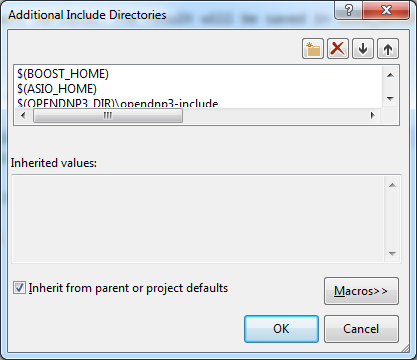
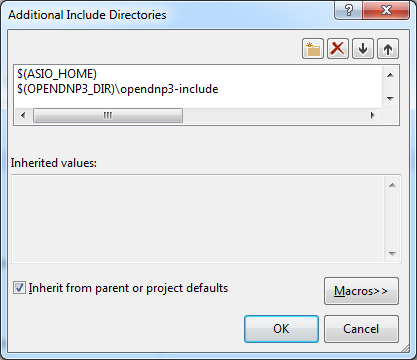
fix to visual studio tutorial
it doesn't need BOOST_HOME anymore.

diff --git a/source/tutorials/tutorial-visual-studio-2013.rst b/source/tutorials/tutorial-visual-studio-2013.rst
@@ -1,10 +1,8 @@
+.. _tutorial_visual_studio_2013:
 ==========================================================
 How to create a new opendnp3 project in Visual Studio 2013
 ==========================================================
-
-.. image:: /img/tutorials/new-project-visual-studio-13/vstudio2013logo_100.png
-   :align: center
-
+ 
 This is a tutorial on how to create a new visual studio 2013 project using the opendnp3 library. During the tutorial I'll be using Visual Studio 2013, but it should be very similar for older (or even newer) versions of this IDE. 
 
 First of all I'll assume that you have a copy of opendnp3 source files and you have installed the opendnp3 libraries and header files on your computer. If not, please read this (link!) before.
@@ -59,6 +57,44 @@ Congratulations! Your project is *almost* ready to build.
 
 We just need to tell the compiler and the linker where did we save our opendnp3 library files.
 
+The one-step solution (with Property Sheets)
+============================================
+Property sheets are a very handy way of re-using configuration files. You can create a property file with all the necessary compiler and linker options and share it among different projects. You can read more `here <http://msdn.microsoft.com/en-us/library/669zx6zc.aspx>`_.
+
+First, create a new text file and rename it to opendnp3_properties.props. 
+Now, open the file with an ordinary text editor (like notepad++) and add the following lines:
+
+.. code-block:: xml
+
+   <?xml version="1.0" encoding="utf-8"?>
+   <Project ToolsVersion="4.0" xmlns="http://schemas.microsoft.com/developer/msbuild/2003">
+     <ImportGroup Label="PropertySheets" />
+     <PropertyGroup Label="UserMacros" />
+     <PropertyGroup />
+     <ItemDefinitionGroup>
+       <ClCompile>
+         <AdditionalIncludeDirectories>$(ASIO_HOME);$(OPENDNP3_DIR)\opendnp3-include;%(AdditionalIncludeDirectories)</AdditionalIncludeDirectories>
+         <PreprocessorDefinitions>ASIO_STANDALONE;ASIO_HAS_STD_SYSTEM_ERROR;_WIN32_WINNT=0x0501;%(PreprocessorDefinitions)</PreprocessorDefinitions>
+       </ClCompile>
+       <Link>
+         <AdditionalDependencies>asiodnp3.lib;asiopal.lib;opendnp3.lib;openpal.lib;%(AdditionalDependencies)</AdditionalDependencies>
+         <AdditionalLibraryDirectories>$(OPENDNP3_DIR)\opendnp3-lib</AdditionalLibraryDirectories>
+       </Link>
+     </ItemDefinitionGroup>
+     <ItemGroup />
+   </Project>
+
+Now go back to the project and go to View > Property Manager and click on the "Add Existing Property Sheet" 
+
+   
+.. image:: /img/tutorials/new-project-visual-studio-13/07a.prop_sheets.png
+   :align: center
+
+Select the recently created file and accept. If you want to have a better insight on what the .xml file is doing, you can continue reading.
+   
+The classical solution (without Property sheets)
+================================================
+
 
 Configuring the compiler
 ------------------------
@@ -68,7 +104,6 @@ and edit the "Additional Include Directories" property with these values:
 
 .. code-block:: bash
 
-   $(BOOST_HOME)
    $(ASIO_HOME)
    $(OPENDNP3_DIR)\opendnp3-include
    
@@ -80,17 +115,32 @@ and edit the "Additional Include Directories" property with these values:
 .. image:: /img/tutorials/new-project-visual-studio-13/04b.compiler.png
    :align: center  
 
+It is very important to add a preprocessor instruction to tell the compiler to use the header-only version of ASIO. In fact, if we don't declare this options, the compiler will try to use the built version of boost library and it will fail if it doesn't find it in our system.
+To modify this property we go to the "Preprocessor" option under the C/C++ section.
+Add the following values to the "Preprocessor Definitions" variable:
+
+.. code-block:: bash
+   
+   ASIO_STANDALONE
+   ASIO_HAS_STD_SYSTEM_ERROR
+   
+
+.. image:: /img/tutorials/new-project-visual-studio-13/06a.preprocessor.png
+   :align: center
+   :width: 600px
+   
+.. image:: /img/tutorials/new-project-visual-studio-13/06b.preprocessor.png
+   :align: center  
    
 Configuring the linker
 ----------------------
 
 Right click on the project name, then Properties.
-On the left side, go to Configuration Properties > Linker > General
-and edit the "Additional Include Directories" property with these values: 
+On the left side, go to ``Configuration Properties > Linker > General``
+and edit the ``Additional Include Directories`` property with these values: 
 
 .. code-block:: bash
 
-   $(BOOST_LIB)
    $(OPENDNP3_DIR)\opendnp3-lib  
    
 .. image:: /img/tutorials/new-project-visual-studio-13/05a.linker.png

diff --git a/source/tutorials/index.rst b/source/tutorials/index.rst
@@ -8,4 +8,3 @@ These are a series of tutorials to help you develop with the opendnp3 library.
 	
    tutorial-visual-studio-2013
    tutorial-setting-development-environment
-	
